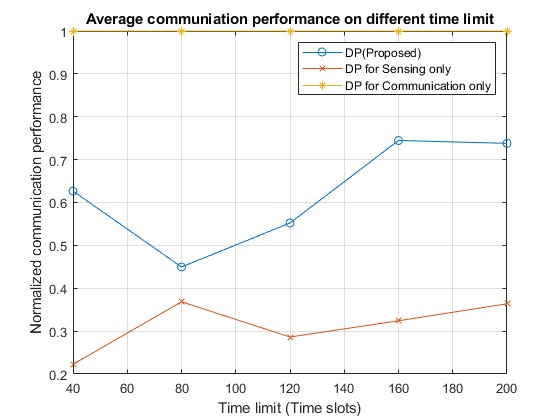
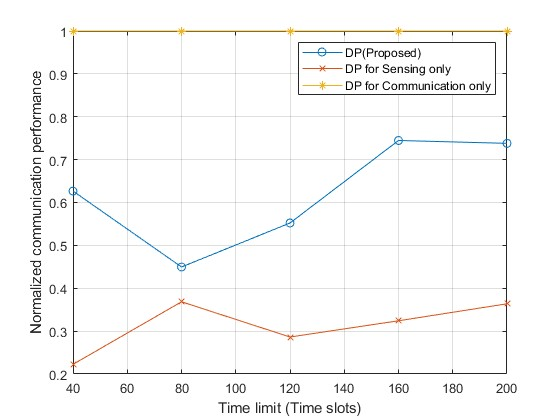
figures

Changed region(s): [[0.1518, 0.031, 0.8804, 0.0619]]

diff --git a/graduation/plot_multiple_alpha.m b/graduation/plot_multiple_alpha.m
@@ -1,11 +1,6 @@
 % 1. load 原本的
 % 2. 改第二個section的檔名
-clear all
-load("multiple_different_time2.mat")
-%%
-mean_comm_rate_dp=mean(comm_rate_dp_matrix);
-mean_comm_rate_sens=mean(comm_rate_sens_matrix);
-mean_comm_rate_comm=mean(comm_rate_comm_matrix);
+load('multiple_different_alpha2.mat')
 %%
 
 mean_rate_dp_old=mean_rate_dp;
@@ -25,11 +20,11 @@ mean_comm_rate_dp_old=mean_comm_rate_dp;
 mean_comm_rate_sens_old=mean_comm_rate_sens;
 mean_comm_rate_comm_old=mean_comm_rate_comm;
 %%
-load('multiple_different_time.mat', 'mean_rate_dp', 'mean_rate_sens', 'mean_rate_comm')
-load('multiple_different_time.mat', 'mean_rate_dp_normalized', 'mean_rate_sens_normalized', 'mean_rate_comm_normalized')
-load('multiple_different_time.mat', 'mean_N_SAR_dp', 'mean_N_SAR_sens', 'mean_N_SAR_comm')
-load('multiple_different_time.mat', 'mean_comm_rate_dp_normalized', 'mean_comm_rate_sens_nomalized', 'mean_comm_rate_comm_normalized')
-load('multiple_different_time.mat', 'mean_comm_rate_dp', 'mean_comm_rate_sens', 'mean_comm_rate_comm')
+load('multiple_different_alpha.mat', 'mean_rate_dp', 'mean_rate_sens', 'mean_rate_comm')
+load('multiple_different_alpha.mat', 'mean_rate_dp_normalized', 'mean_rate_sens_normalized', 'mean_rate_comm_normalized')
+load('multiple_different_alpha.mat', 'mean_N_SAR_dp', 'mean_N_SAR_sens', 'mean_N_SAR_comm')
+load('multiple_different_alpha.mat', 'mean_comm_rate_dp_normalized', 'mean_comm_rate_sens_nomalized', 'mean_comm_rate_comm_normalized')
+load('multiple_different_alpha.mat', 'mean_comm_rate_dp', 'mean_comm_rate_sens', 'mean_comm_rate_comm')
 %%
 mean_rate_dp=(mean_rate_dp+mean_rate_dp_old)/2;
 mean_rate_sens=(mean_rate_sens+mean_rate_sens_old)/2;
@@ -50,62 +45,61 @@ mean_comm_rate_comm=(mean_comm_rate_comm+mean_comm_rate_comm_old)/2;
 %%
 
 figure()
-plot(time_slot_max_row, mean_rate_dp, '-o');
+plot(alpha_row, mean_rate_dp, '-o');
 hold on
 % plot(time_slot_max_row, mean_rate_heu, '-^');
-plot(time_slot_max_row, mean_rate_sens, '-x');
-plot(time_slot_max_row, mean_rate_comm, '-*');
+plot(alpha_row, mean_rate_sens, '-x');
+plot(alpha_row, mean_rate_comm, '-*');
 ylabel('Total performance (bits)')
-xlabel('Time limit (Time slots)')
+xlabel('alpha (times of average rate)')
 grid on
 legend('DP(Proposed)', 'Sensing only', 'Communication only')
-% title("Average performance on different time limit")
+% title("Average performance on different alpha")
 
 figure()
-plot(time_slot_max_row, mean_rate_dp_normalized, '-o');
+plot(alpha_row, mean_rate_dp_normalized, '-o');
 hold on
 % plot(time_slot_max_row, mean_rate_heu_normalized, '-^');
-plot(time_slot_max_row, mean_rate_sens_normalized, '-x');
-plot(time_slot_max_row, mean_rate_comm_normalized, '-*');
-xlabel('Time limit (Time slots)')
+plot(alpha_row, mean_rate_sens_normalized, '-x');
+plot(alpha_row, mean_rate_comm_normalized, '-*');
+xlabel('alpha (times of average rate)')
 ylabel('Total normalized performance')
 grid on
 legend('DP(Proposed)', 'DP for Sensing only', 'DP for Communication only')
-% title("Average normalized performance on different time limit")
+% title("Average normalized performance on different alpha")
 
 figure()
-plot(time_slot_max_row, mean_N_SAR_dp, '--o');
+plot(alpha_row, mean_N_SAR_dp, '--o');
 hold on
 % plot(time_slot_max_row, mean_N_SAR_heu, '--^');
-plot(time_slot_max_row, mean_N_SAR_sens, '--x');
-plot(time_slot_max_row, mean_N_SAR_comm, '--*');
+plot(alpha_row, mean_N_SAR_sens, '--x');
+plot(alpha_row, mean_N_SAR_comm, '--*');
 ylabel('Coverage (cells)')
-xlabel('Time limit (Time slots)')
+xlabel('alpha (times of average rate)')
 grid on
 legend('DP(Proposed)', 'DP for Sensing only', 'DP for Communication only')
 % title("Average SAR coverage on different time limit")
 
 figure()
-plot(time_slot_max_row, mean_comm_rate_dp_normalized, '-o');
+plot(alpha_row, mean_comm_rate_dp_normalized, '-o');
 hold on
 % plot(time_slot_max_row, mean_comm_rate_heu_normalized, '-^');
-plot(time_slot_max_row, mean_comm_rate_sens_nomalized, '-x');
-plot(time_slot_max_row, mean_comm_rate_comm_normalized, '-*');
-xlabel('Time limit (Time slots)')
+plot(alpha_row, mean_comm_rate_sens_nomalized, '-x');
+plot(alpha_row, mean_comm_rate_comm_normalized, '-*');
+xlabel('alpha (times of average rate)')
 ylabel('Normalized communication performance')
 grid on
 legend('DP(Proposed)', 'DP for Sensing only', 'DP for Communication only')
-% title("Average communiation performance on different time limit")
-
+% title("Average normalized communiation performance on different alpha")
 
 figure()
-plot(time_slot_max_row, mean_comm_rate_dp, '-o');
+plot(alpha_row, mean_comm_rate_dp, '-o');
 hold on
 % plot(time_slot_max_row, mean_comm_rate_heu_normalized, '-^');
-plot(time_slot_max_row, mean_comm_rate_sens, '-x');
-plot(time_slot_max_row, mean_comm_rate_comm, '-*');
-xlabel('Time limit (Time slots)')
-ylabel('Communication performance (bits)')
+plot(alpha_row, mean_comm_rate_sens, '-x');
+plot(alpha_row, mean_comm_rate_comm, '-*');
+xlabel('alpha (times of average rate)')
+ylabel('Communication performance')
 grid on
 legend('DP(Proposed)', 'DP for Sensing only', 'DP for Communication only')
-% title("Average communiation performance on different time limit")
+% title("Average communiation performance on different alpha")
